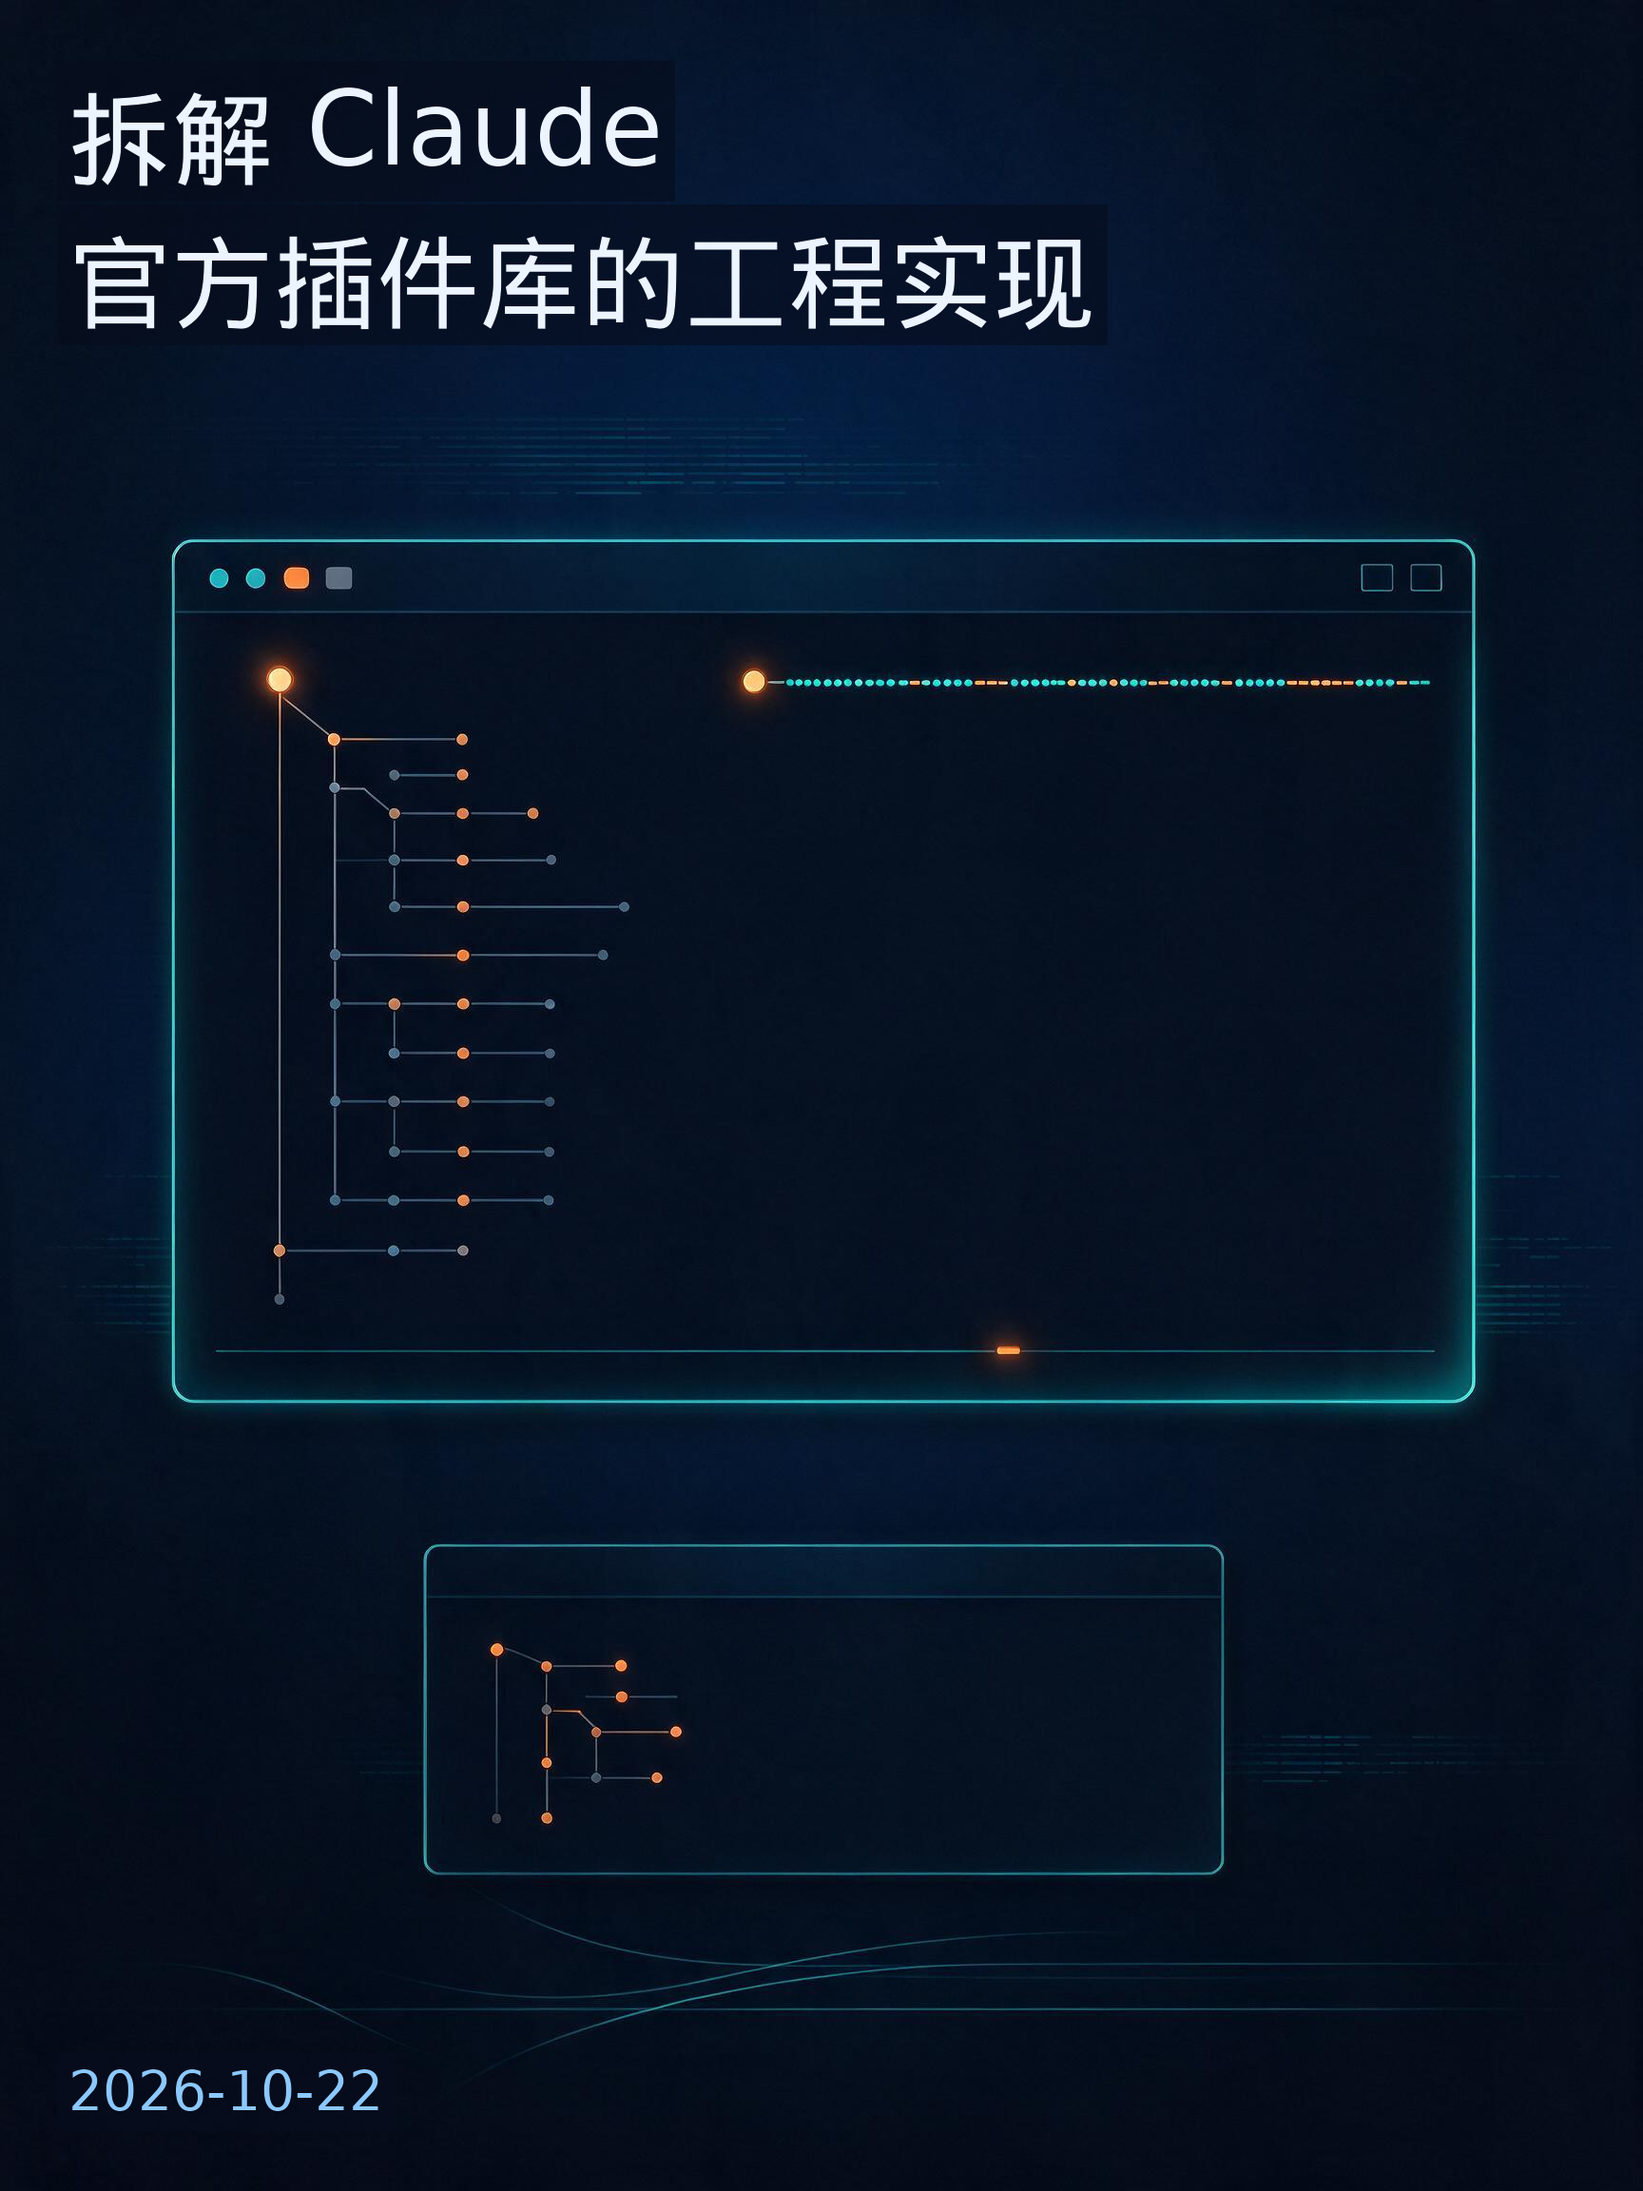
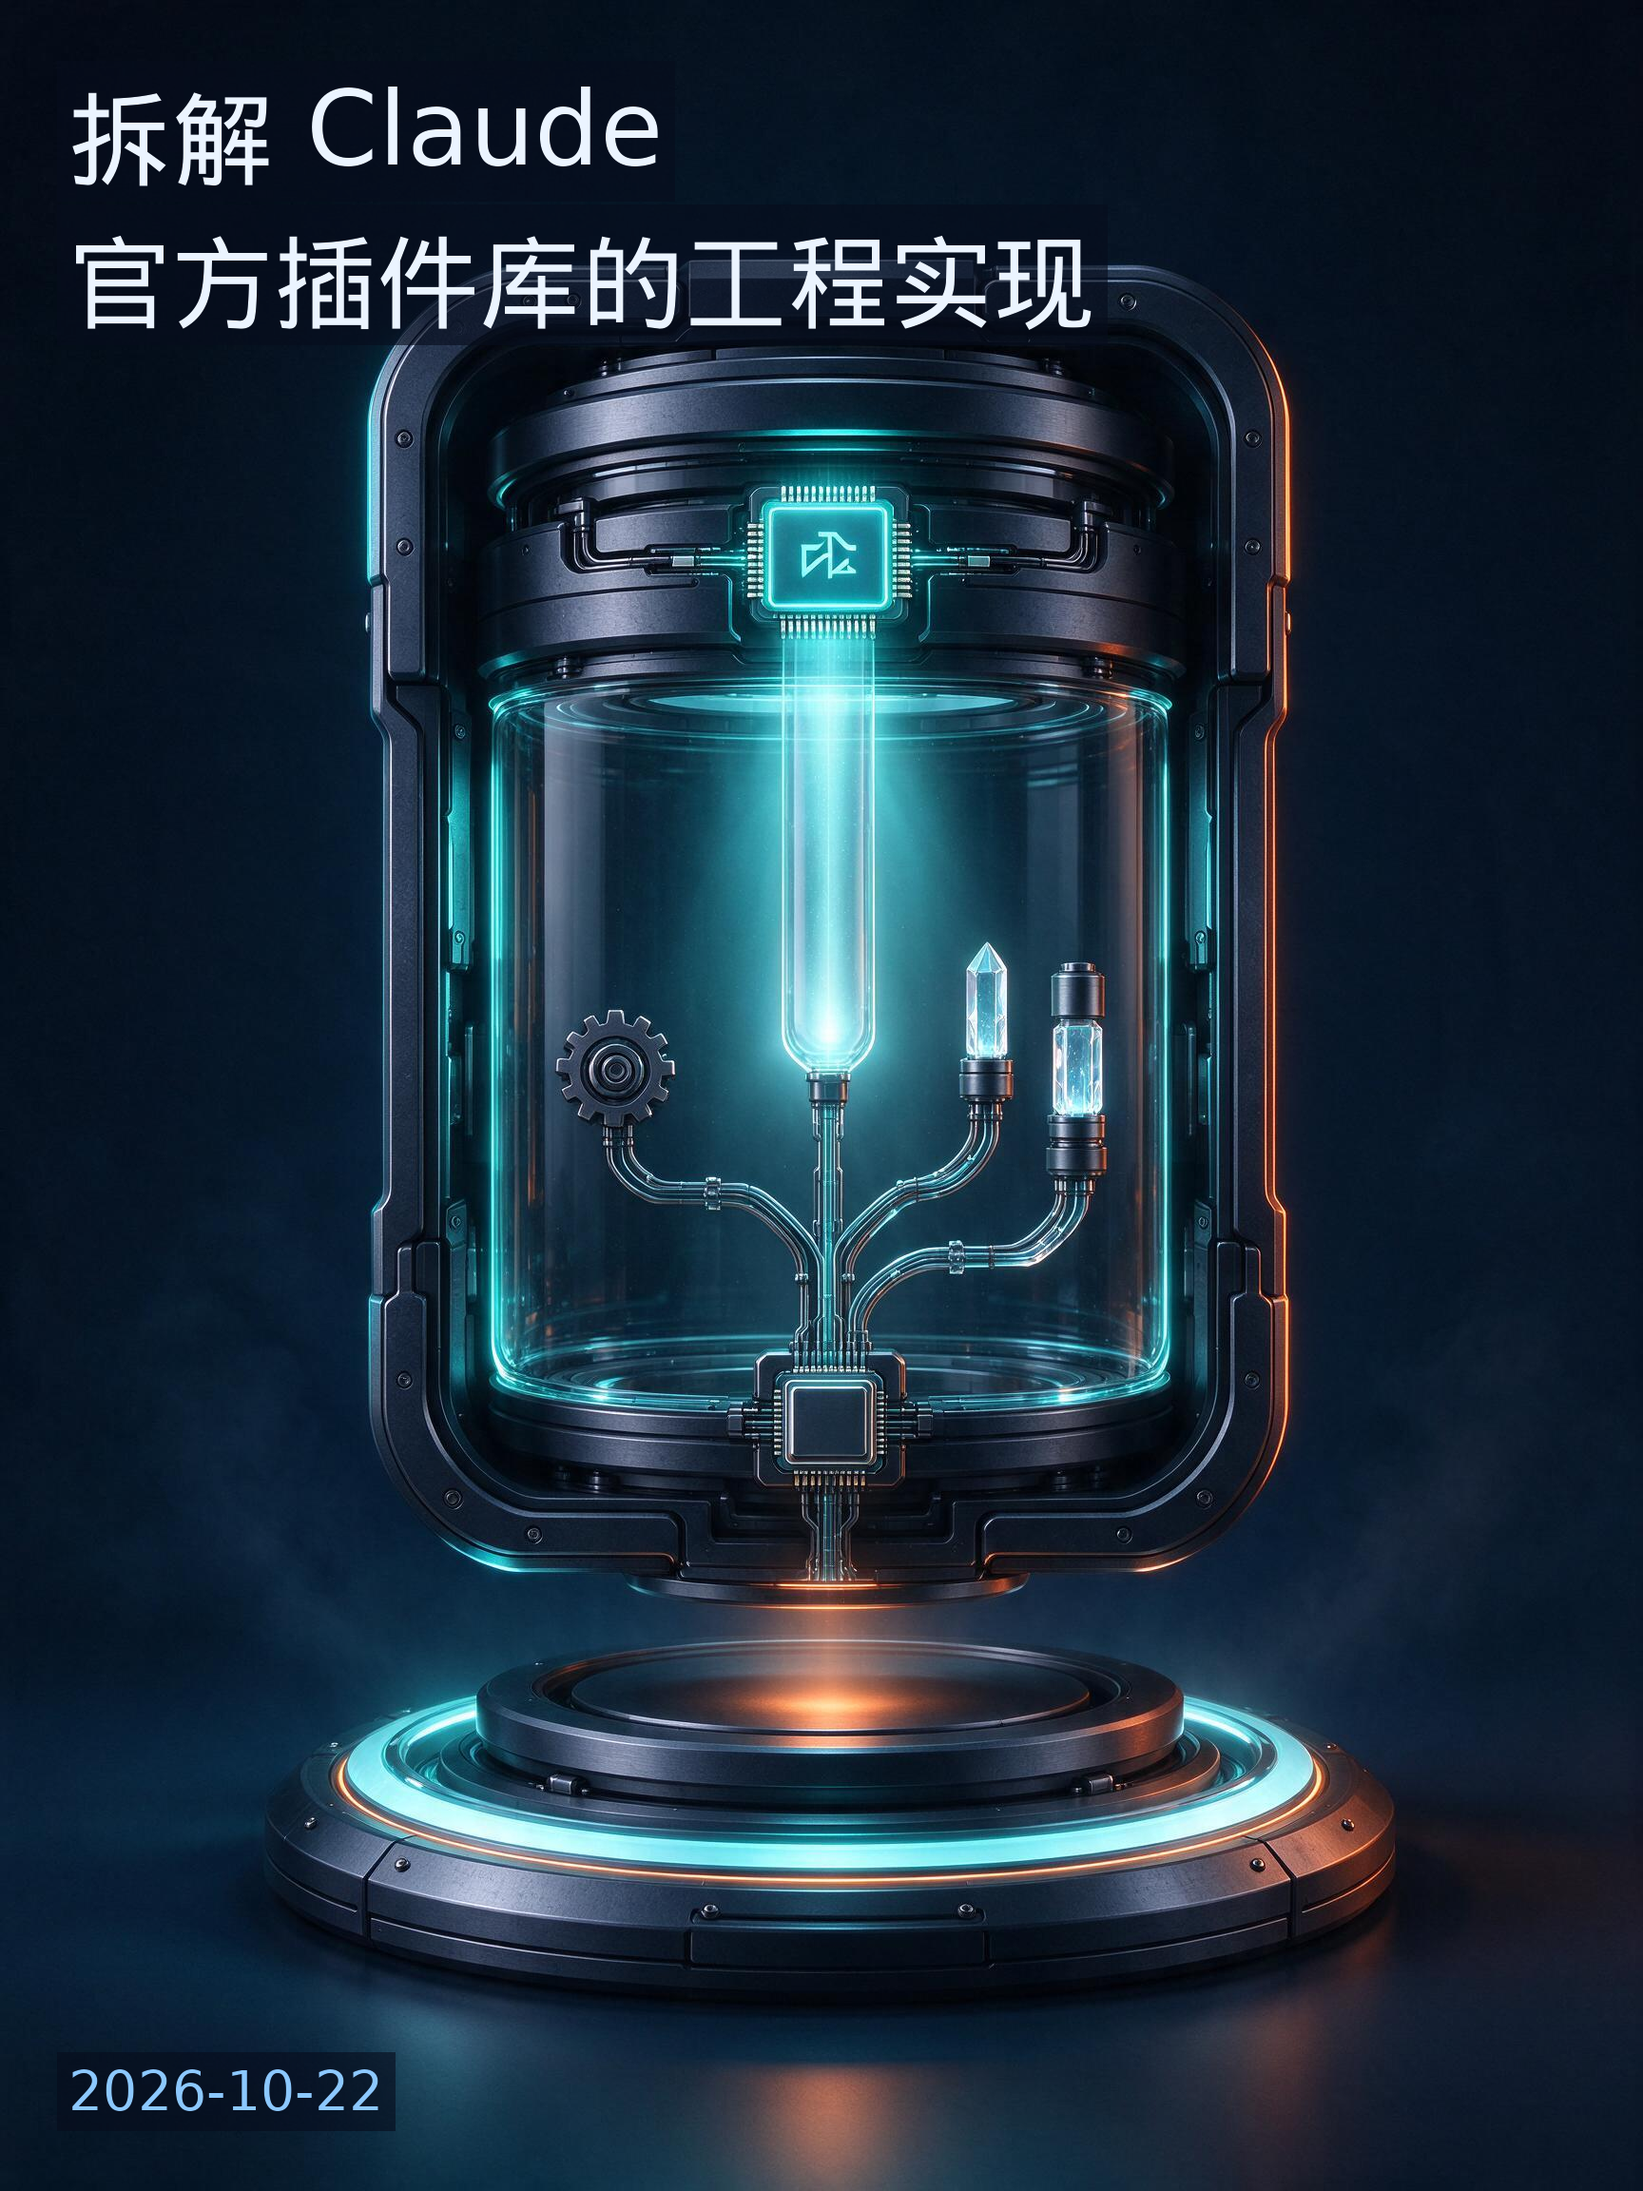
Cover style v2: single clear isometric 3D object metaphor instead of abstract wireframe UI (v1 was illegible)

diff --git a/scripts/gen_cover.py b/scripts/gen_cover.py
@@ -47,11 +47,16 @@ IMAGE_MODEL = os.environ.get("IMAGE_MODEL") or "doubao-seedream-5-0-flash-260915
 # Seedream 3.0 的合法档位，放后面兜底；都失败再试 "2K" 令牌写法。
 SIZE_CANDIDATES = [os.environ.get("IMAGE_SIZE") or "1728x2304", "864x1152", "2K"]
 
-# 固定风格基底：深色背景 + 极简蓝图线框 + 竖版，文字明令禁止
+# 固定风格基底：单一清晰主体的等距 3D 物件隐喻。
+# 教训（2026-10-22 首版被用户否了）：不要"线框图/终端/界面截图"类主题——
+# 禁了文字之后界面图只剩一堆没人认识的抽象框框；必须让模型画"一个具体的东西"。
 STYLE_BASE = (
-    "深色背景（深海军蓝到近黑渐变），极简蓝图线框风格的科学示意图，"
-    "竖版构图，细线条发出青色与暖橙色微光，大量留白，扁平化极简设计，"
-    "no text, no watermark, no letters, no words, no characters. 画面主题："
+    "竖版构图，深海军蓝到近黑渐变背景，画面中央只有一个清晰、巨大、"
+    "一眼可辨的立体主体，等距 3D 渲染风格，柔和体积光，青色与暖橙色边缘光，"
+    "细节精致有质感，电影级打光，周围大量留白。"
+    "绝对不要画电脑屏幕、终端、代码、窗口或任何软件界面，"
+    "把主题转化成一个具体的、现实中的物件隐喻。"
+    "no text, no watermark, no letters, no words. 主题："
 )
 
 MAX_BYTES = 5 * 1024 * 1024  # 超过就降尺寸重存，Pages 上别挂太大的图
